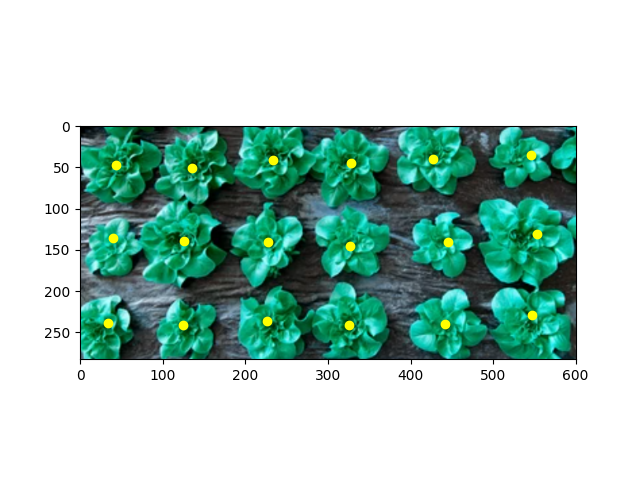
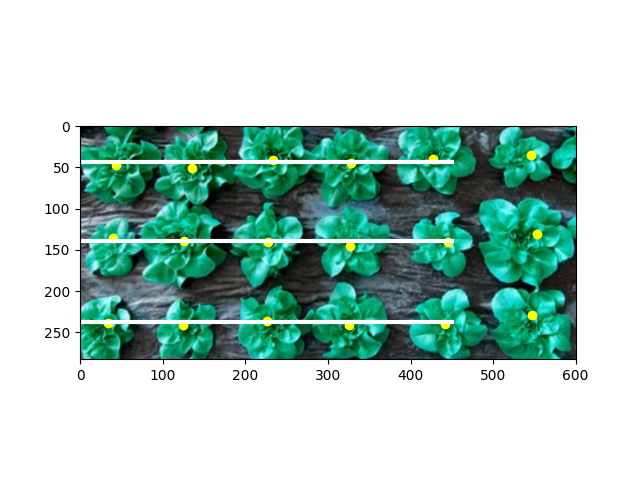
found lines

Changed region(s): [[0.125, 0.6562, 0.7188, 0.6875], [0.125, 0.5, 0.7188, 0.5312], [0.125, 0.3125, 0.7188, 0.3438]]

diff --git a/Edge Compute/prototype for plant finder.py b/Edge Compute/prototype for plant finder.py
@@ -1,6 +1,6 @@
 
 import time
-from clustering_utils import check_cluster_multitudes,find_elbow,find_centroids,plot_cluster_graph,plot_image_with_centers
+from clustering_utils import check_cluster_multitudes,find_elbow,find_centroids,plot_cluster_graph,plot_image_with_centers_lines,find_lines
 from image_utils import detect_edges,edge_image_to_edge_points_np_list
 
 
@@ -11,7 +11,7 @@ img,edge_image_good,edge_image_simple=detect_edges(filename,thres1=150,thres2=22
 t2=time.time()
 edge_point_list_good=edge_image_to_edge_points_np_list(edge_image_good)
 edge_point_list_simple=edge_image_to_edge_points_np_list(edge_image_simple) #takes filtered image and returns a list of all the white pixels (so any coordinate where part of an edge is present)
-test_cases=range(2,22) #set the possible cases for plant multitude (the algorithm will check for each number and find the best match, use as smaller range as possible and preferably weighted to the left to improve performance)
+test_cases=range(16,20) #set the possible cases for plant multitude (the algorithm will check for each number and find the best match, use as smaller range as possible and preferably weighted to the left to improve performance)
 t3=time.time()
 wcss=check_cluster_multitudes(test_cases,edge_point_list_simple) #gets error list from trying all possible test cases
 #plot_cluster_graph(test_cases, wcss) #plots error list to get idea of elbo graph
@@ -20,7 +20,10 @@ n=find_elbow(wcss,test_cases) #finds where the elbow occurs in the error graph
 t5=time.time()
 centers_x,centers_y=find_centroids(edge_point_list_good,n) #gets coordiantes of plant centers after running the algorithm once again for the correct n (could have stored data from the test cases run but one run doesn't cost as much, also this time we use more detail in the execution for optimal results and not just error estimation)
 t6=time.time()
-#plot_image_with_centers(img,centers_x,centers_y) #show image
+test_cases=range(1,6)
+lines_y,_=find_lines(test_cases,centers_x,centers_y)
+#print(_)
+plot_image_with_centers_lines(img,centers_x,centers_y,_,lines_y) #show image
 
 print('time for edge filter:              ',t2-t1)
 print('time to find errors for test cases:',t4-t3)

diff --git a/Edge Compute/clustering_utils.py b/Edge Compute/clustering_utils.py
@@ -41,11 +41,28 @@ def find_centroids(edge_point_list,n):
     return centers_x,centers_y
 
 
-def plot_image_with_centers(img,centers_x,centers_y):
+def plot_image_with_centers_lines(img,centers_x,centers_y,_,lines_y):
     plt.imshow(img)
     plt.plot(centers_x,centers_y,'o',color='yellow')
+    for line in lines_y:
+        p1 = [0, 450]
+        p2 = [line, line]
+        plt.plot(p1, p2, color="red", linewidth=3)
+
+ 
     plt.savefig('original image with centroids drawn.png')
     plt.show()
 
 
+
+def find_lines(test_cases,_,centroids_y): #better use https://stackoverflow.com/questions/33629842/grouping-points-that-represent-lines
+    point_list=[]
+    centroids_x=[0]*len(centroids_y) 
+    for point in range(len(centroids_y)):
+        point_list.append([centroids_x[point],centroids_y[point]])
+    wcss=check_cluster_multitudes(test_cases,point_list)
+    lines_multitude=find_elbow(wcss,test_cases)
+    print(lines_multitude)
+    _,results_y=find_centroids(point_list,lines_multitude)
+    return _,results_y
 
